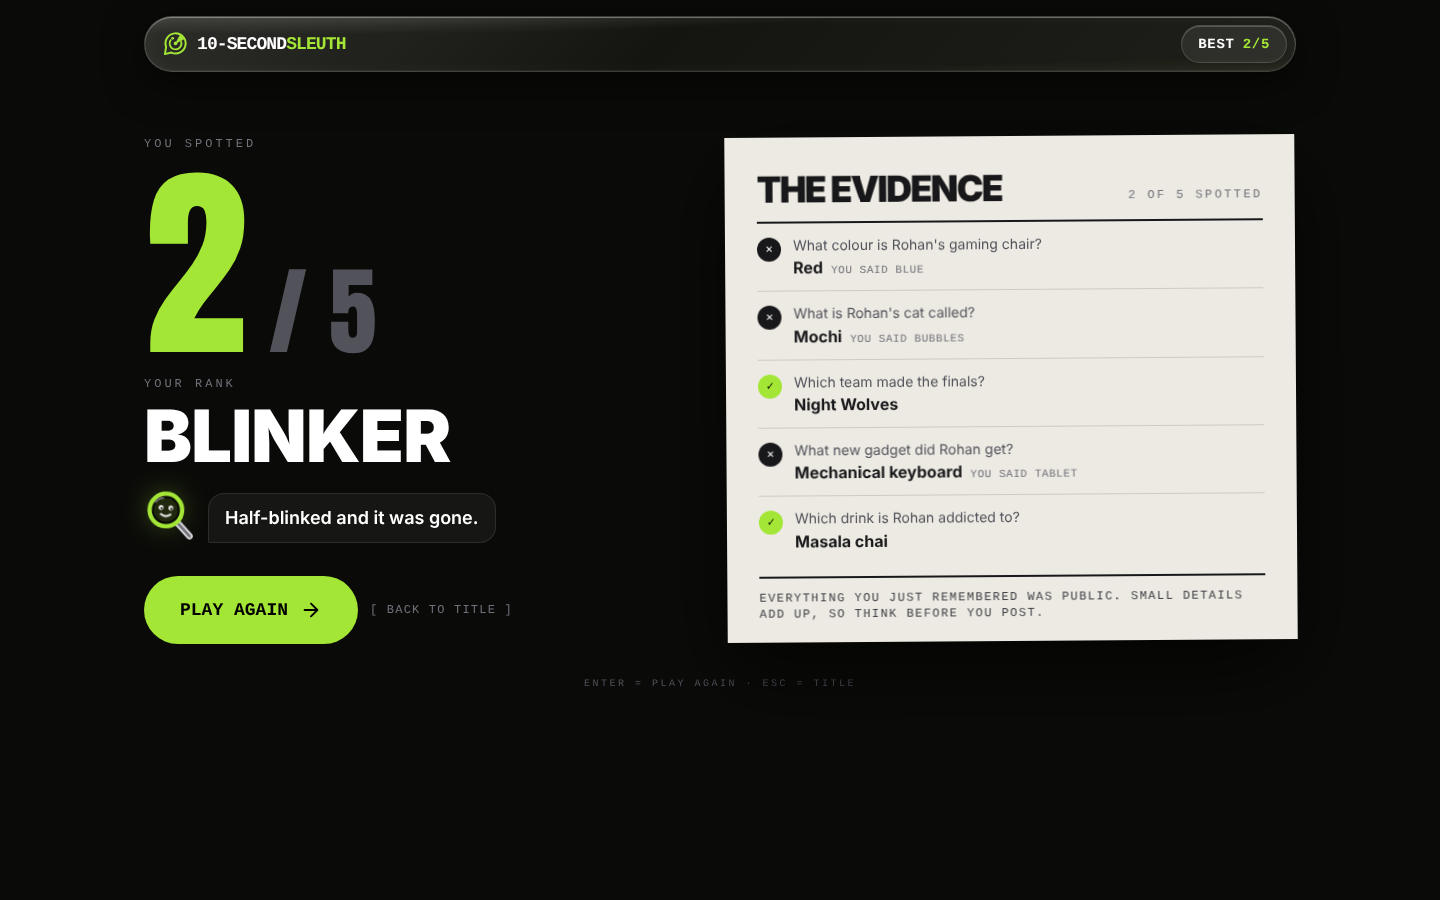
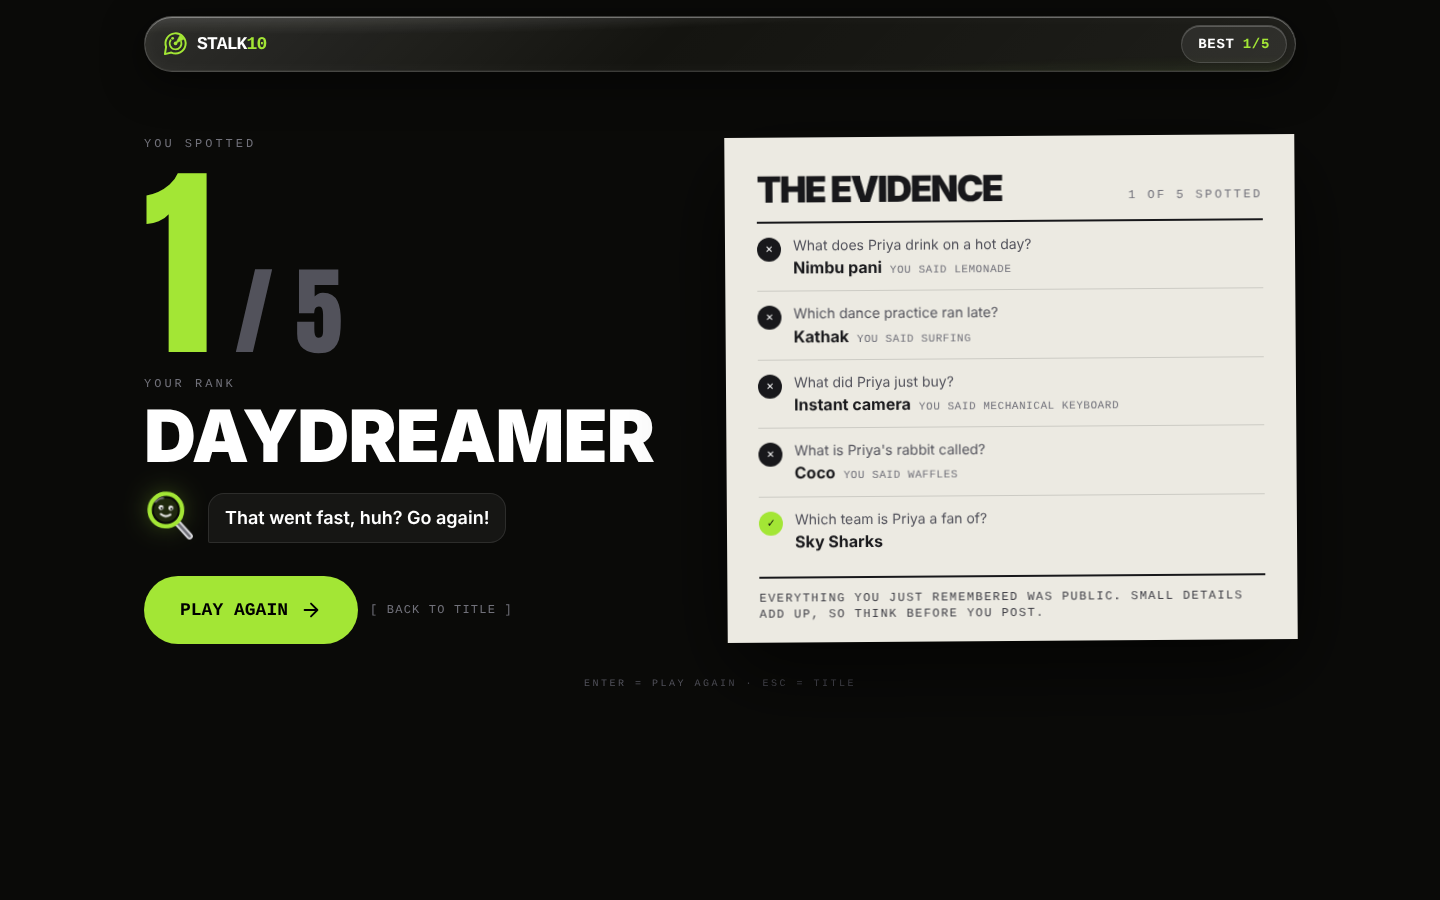
Rebrand to stalk10
Claude-Session: https://claude.ai/code/session_01DGm3B5AaMHuSEuj3PcSMVj

diff --git a/components/TitleScreen.tsx b/components/TitleScreen.tsx
@@ -41,9 +41,8 @@ export default function TitleScreen({ params, onPlay }: { params: GameParams; on
         </div>
 
         <div className="rise-in relative z-10 text-center">
-          <h1 className="select-none text-[14.5vw] font-black uppercase leading-[0.82] tracking-tighter sm:text-[11vw] lg:text-[8.5vw] 2xl:text-[130px]">
-            <span className="whitespace-nowrap">10-Second</span><br />
-            <span className="bg-gradient-to-b from-white to-zinc-600 bg-clip-text text-transparent">Sleuth</span>
+          <h1 className="select-none whitespace-nowrap text-[21vw] font-black uppercase leading-[0.82] tracking-tighter sm:text-[16vw] lg:text-[13vw] 2xl:text-[200px]" aria-label="stalk10">
+            Stalk<span className="bg-gradient-to-b from-white to-zinc-600 bg-clip-text text-transparent">10</span>
           </h1>
           <p className="mx-auto mt-7 max-w-2xl font-mono text-[13px] uppercase leading-relaxed tracking-[0.18em] text-zinc-400 sm:text-base sm:tracking-widest">
             <span className="block sm:inline">Look for 10 seconds.</span>{" "}

diff --git a/components/SiteNav.tsx b/components/SiteNav.tsx
@@ -12,10 +12,10 @@ export default function SiteNav({ onHome, right }: { onHome?: () => void; right?
           onHome();
         }}
         className="relative flex min-h-[36px] items-center gap-2 font-mono text-base font-bold uppercase tracking-tighter sm:text-lg"
-        aria-label="10-Second Sleuth, back to title"
+        aria-label="stalk10, back to title"
       >
         <Image src="/logo.svg" alt="" width={28} height={28} priority />
-        <span>10-SECOND<span className="text-lime-400">SLEUTH</span></span>
+        <span>STALK<span className="text-lime-400">10</span></span>
       </a>
       <div className="relative flex min-h-[36px] items-center gap-2">{right}</div>
     </nav>

diff --git a/app/layout.tsx b/app/layout.tsx
@@ -6,7 +6,7 @@ import "./globals.css";
 const anton = localFont({ src: "./fonts/anton.woff2", variable: "--font-anton", display: "swap" });
 
 export const metadata: Metadata = {
-  title: "10-Second Sleuth",
+  title: "stalk10",
   description: "Look at a profile for 10 seconds. Then see how much you remember. A memory game about made-up people.",
   robots: { index: true, follow: false },
 };

diff --git a/app/play/page.tsx b/app/play/page.tsx
@@ -1,7 +1,7 @@
 import type { Metadata } from "next";
 import App from "@/components/App";
 
-export const metadata: Metadata = { title: "Play · 10-Second Sleuth" };
+export const metadata: Metadata = { title: "Play · stalk10" };
 
 export default function Page() {
   return <App initial="play" />;

diff --git a/README.md b/README.md
@@ -1,4 +1,6 @@
-# 10-Second Sleuth
+# stalk10
+
+(Formerly "10-Second Sleuth". The repo, Vercel project and storage keys keep the old `ten-second-sleuth` / `sleuth` names.)
 
 **Look at a profile for 10 seconds. Then see how much you remember.**
 
